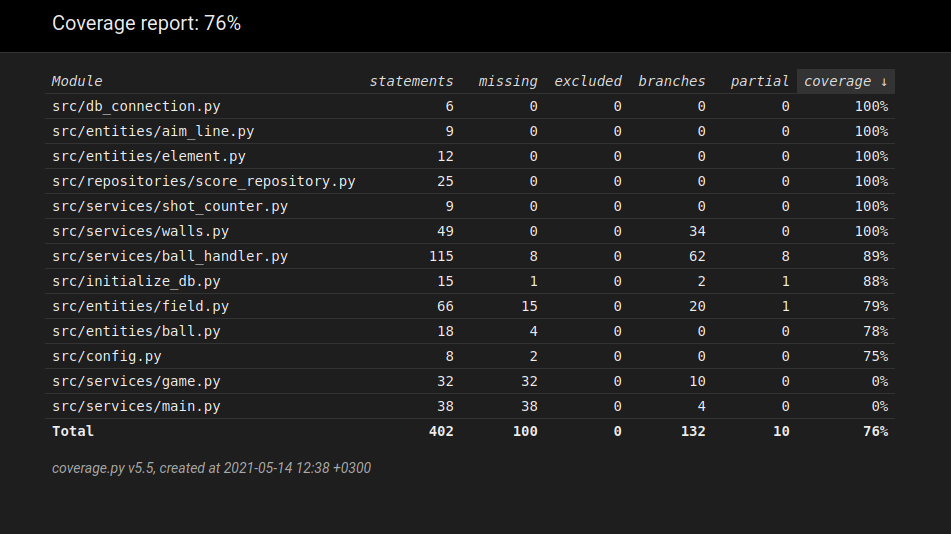
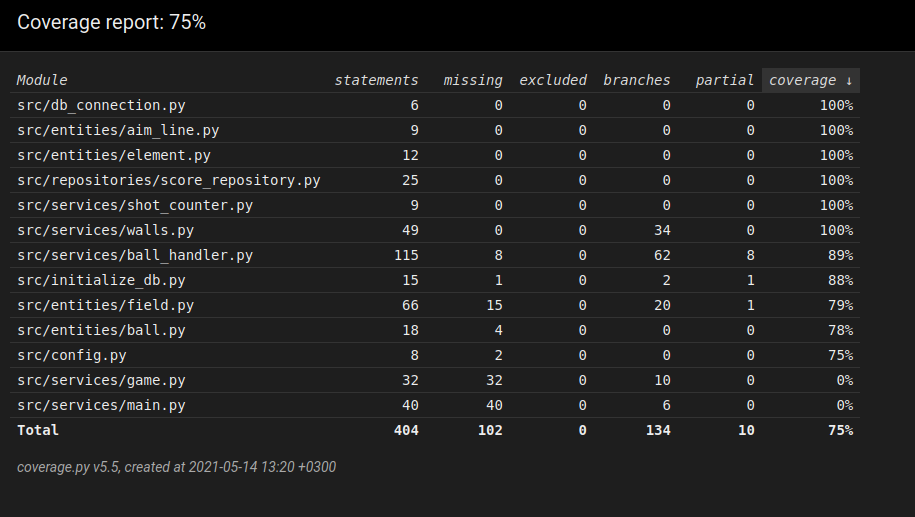
minor pylint fixes

diff --git a/minigolf-game/src/ui/score_viewer.py b/minigolf-game/src/ui/score_viewer.py
@@ -2,8 +2,7 @@ from tkinter import Tk, ttk, Canvas, StringVar, OptionMenu, Button, CENTER
 
 
 class ScoreViewer:
-    """A class to display the score history.
-    """
+    """A class to display the score history."""
 
     def __init__(self, score_repository, levels):
         """Initializes the tkinter window.
@@ -57,10 +56,10 @@ class ScoreViewer:
             empty_label.grid(row=row, pady=20, columnspan=3)
             row += 1
         else:
-            for i in range(len(scores)):
-                for j in range(len(scores[0])):
+            for i, datarow in enumerate(scores):
+                for j, value in enumerate(datarow):
                     label = ttk.Label(self._canvas,
-                                      text=scores[i][j],
+                                      text=value,
                                       background='#99ff99',
                                       padding=3,
                                       justify=CENTER)
@@ -108,27 +107,32 @@ class ScoreViewer:
         button.grid(row=row, column=0, pady=10)
 
     def clear(self):
-        """Clears the canvas but does not affect the root window.
-        """
+        """Clears the canvas but does not affect the root window."""
         self._canvas.destroy()
 
     def reset(self):
-        """Resets the view to show all scores.
-        """
+        """Resets the view to show all scores."""
         self.clear()
         self.add_items(self._score_repository.find_all())
 
     def filter_by_name(self):
+        """Filters the results by name.
+
+        Clears the current view first.
+        """
         name = self._name_entry.get()
         self.clear()
         self.add_items(self._score_repository.find_all_by_player(name))
 
     def filter_by_level(self):
+        """Filters the results by level.
+
+        Clears the current view first.
+        """
         self.clear()
         level = self._level.get()
         self.add_items(self._score_repository.find_all_by_level(level))
 
     def fire_up(self):
-        """Starts the tkinter Tk mainloop to display the window.
-        """
+        """Starts the tkinter Tk mainloop to display the window."""
         self._root.mainloop()

diff --git a/minigolf-game/src/ui/menu.py b/minigolf-game/src/ui/menu.py
@@ -31,8 +31,7 @@ class Menu:
         self._root['bg'] = '#99ff99'
 
     def initialize(self):
-        """Initializes the tkinter elements.
-        """
+        """Initializes the tkinter elements."""
         label = ttk.Label(master=self._root,
                           text='Play some minigolf',
                           background='#408040',
@@ -103,13 +102,11 @@ class Menu:
         table_button.grid(row=4, column=0, padx=10)
 
     def handle_click(self):
-        """Starts the game when called.
-        """
+        """Starts the game when called."""
         self.start_game(self._entry.get(), self._level.get(),
                         self._ball_color.get())
 
     def run(self):
-        """Starts the tkinter menu.
-        """
+        """Starts the tkinter menu."""
         self.initialize()
         self._root.mainloop()

diff --git a/minigolf-game/src/services/renderer.py b/minigolf-game/src/services/renderer.py
@@ -4,8 +4,7 @@ from ui.score import Score
 
 
 class Renderer:
-    """A class to handle rendering in pygame.
-    """
+    """A class to handle rendering in pygame."""
 
     def __init__(self, display, field, ball, aim_line):
         """A constuctor that sets the pygame display and the field.
@@ -34,8 +33,7 @@ class Renderer:
         pygame.display.update()
 
     def draw_aim(self):
-        """A method to draw the aiming line.
-        """
+        """A method to draw the aiming line."""
         mouse_pos = pygame.mouse.get_pos()
         current_x, current_y = self._ball.rect.x, self._ball.rect.y
         self._aim_line.draw_line(current_x, current_y, mouse_pos)

diff --git a/minigolf-game/src/ui/end_screen.py b/minigolf-game/src/ui/end_screen.py
@@ -4,12 +4,10 @@ import pygame
 
 
 class EndScreen:
-    """A class to display information after a game is played.
-    """
+    """A class to display information after a game is played."""
 
     def __init__(self):
-        """Sets a new pygame display and fonts.
-        """
+        """Sets a new pygame display and fonts."""
         pygame.init()
         self._display = pygame.display.set_mode((600, 250))
         self._display.fill((153, 255, 153))

diff --git a/minigolf-game/src/services/ball_handler.py b/minigolf-game/src/services/ball_handler.py
@@ -162,8 +162,7 @@ class BallHandler:
                     self.switch_y_direction(ball_x, ranges)
 
     def check_outer_walls(self, ball_x, ball_y):
-        """A method to manually check if the ball hits the outer walls.
-        """
+        """Manually checks if the ball hits the outer walls."""
         height, width = self.field.get_dimensions()
 
         if ball_x <= 15 and self.x_dir < 0:

diff --git a/minigolf-game/src/services/clock.py b/minigolf-game/src/services/clock.py
@@ -2,12 +2,10 @@ import pygame
 
 
 class Clock:
-    """A class for pygame clock to be used in the main game.
-    """
+    """A class for pygame clock to be used in the main game."""
 
     def __init__(self):
-        """Initializes a pygame clock.
-        """
+        """Initializes a pygame clock."""
         self.clock = pygame.time.Clock()
 
     def tick(self, fps):

diff --git a/minigolf-game/src/ui/score_table.py b/minigolf-game/src/ui/score_table.py
@@ -4,8 +4,7 @@ from levels.field_importer import get_keys
 
 
 def open_table():
-    """Sets up a ScoreViewer class object when called.
-    """
+    """Sets up a ScoreViewer class object when called."""
     score_repository = ScoreRepository()
     score_viewer = ScoreViewer(score_repository, get_keys())
     score_viewer.fire_up()

diff --git a/minigolf-game/src/services/main.py b/minigolf-game/src/services/main.py
@@ -36,6 +36,10 @@ def main(name='Player 1', level=4, ball_color='blue'):
     height = len(field_map)
     width = len(field_map[0])
 
+    # TkInter passes an empty string as name if name is not given
+    if name == '':
+        name = 'Player 1'
+
     pygame.init()
 
     pygame.display.set_caption(f'{name} is now playing')

diff --git a/minigolf-game/src/ui/score.py b/minigolf-game/src/ui/score.py
@@ -2,8 +2,7 @@ import pygame
 
 
 class Score:
-    """A class to show the current score during a game.
-    """
+    """A class to show the current score during a game."""
 
     def __init__(self, display):
         """Initializes a pygame font for the score.

diff --git a/minigolf-game/src/config.py b/minigolf-game/src/config.py
@@ -5,7 +5,7 @@ dirname = os.path.dirname(__file__)
 
 try:
     load_dotenv(dotenv_path=os.path.join(dirname, '..', '.env'))
-except:
+except FileNotFoundError:
     print('The .env file not found :(')
 
 DB_PATH = os.getenv("DB")

diff --git a/dokumentaatio/testaus.md b/dokumentaatio/testaus.md
@@ -24,7 +24,7 @@ Tietojen pysyväistallennuksesta vastaavaa `ScoreRepository` -luokkaa testataan 
 
 ## Testauskattavuus
 
-Testien haarautumakattavuus on 76%.
+Testien haarautumakattavuus on 75%.
 
 ![Coverage](./kuvat/coveragereport.png)
 
